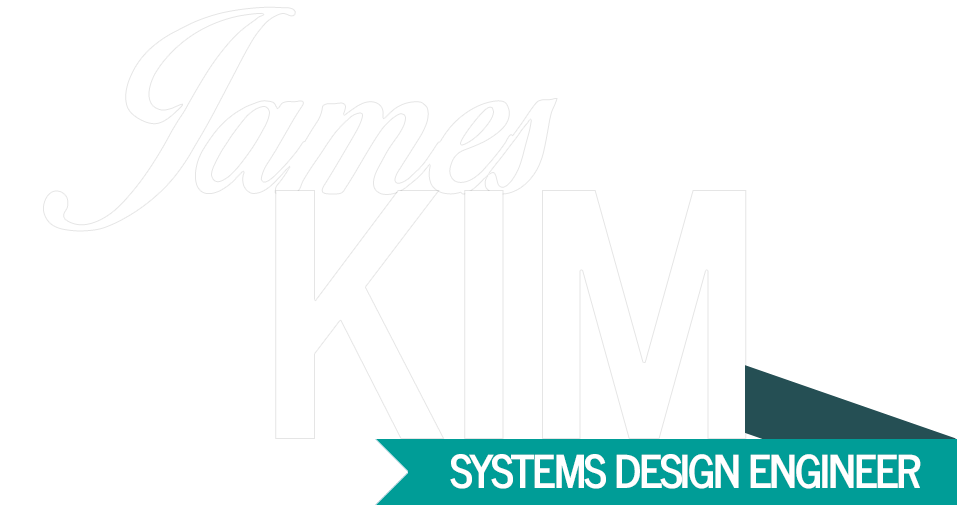
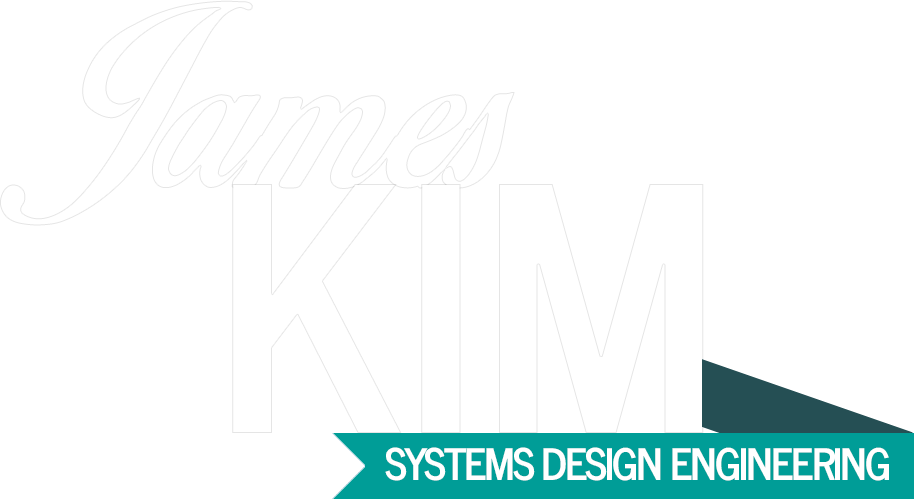
added header and project 2 pictures

Changed region(s): [[0.3676, 0.7214, 0.9803, 1.0], [0.9497, 0.8417, 1.0, 0.8717], [0.8271, 0.7515, 0.8578, 0.7816]]

diff --git a/index.html b/index.html
@@ -121,7 +121,7 @@
 					</div>
 
 					<div class="project-2 item">
-						<img class="project-background" src="img/project1background.png" alt="Project1"> 
+						<img class="project-background" src="img/project2background.png" alt="Project1"> 
 						<div class="projects-container">
 							<div class="carousel-caption">
 								<div class="project-title">
